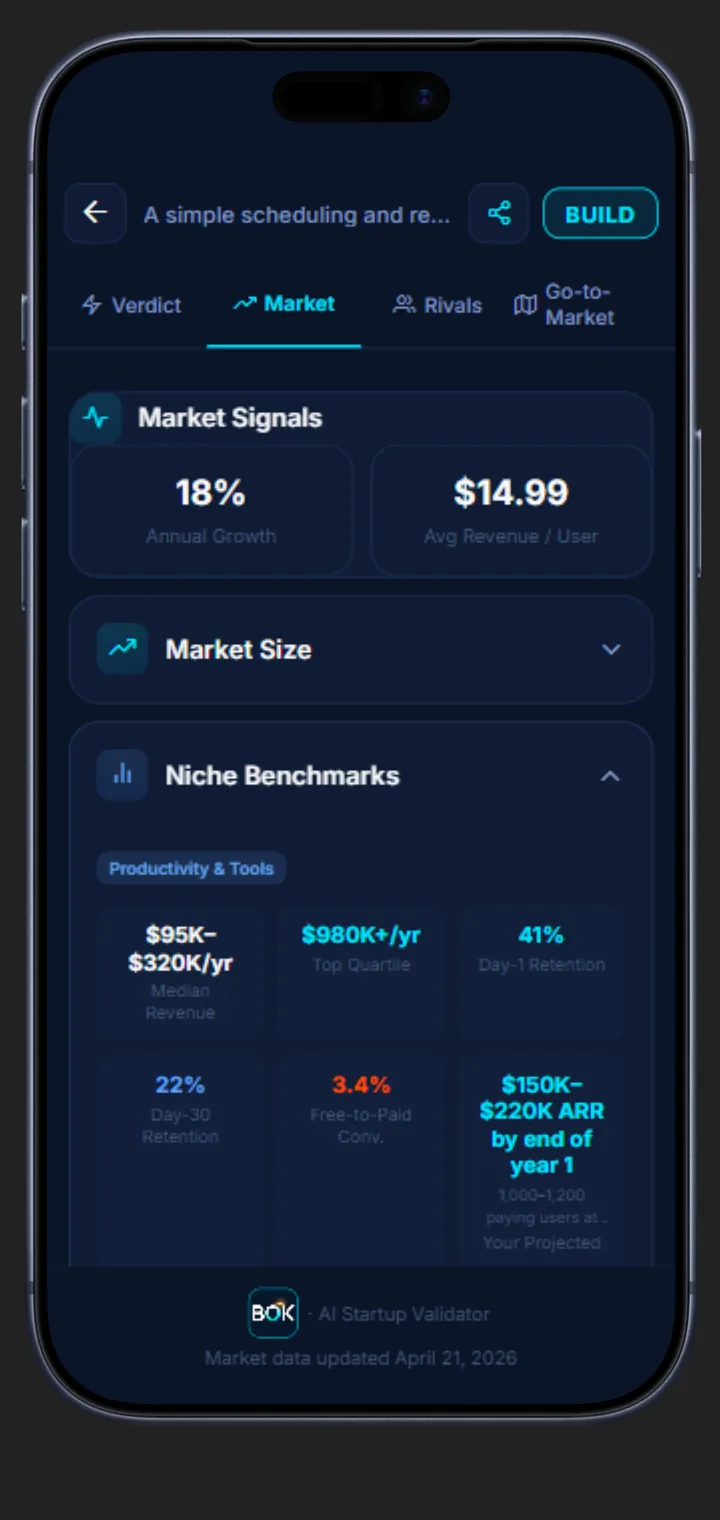
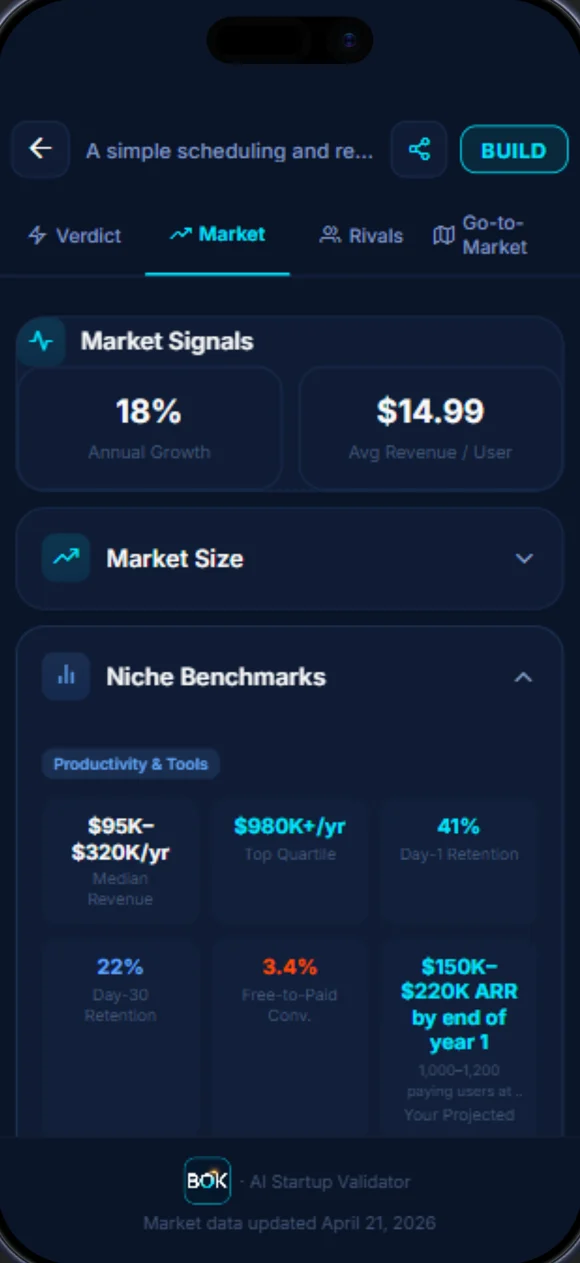
Rebuild the phones as one real device component, fix hero overlap
The hero copy was absolutely positioned over the stage and overlapped
the phone by 137px at 1100 and 56px at 1280, only clearing at 1440. That
pattern is for full-bleed media; a phone is a discrete object, so the
hero is a two-column grid now (zero overlap 1024-1920, one column below
860px).

The page also showed two different kinds of phone: a CSS frame in the
hero and raw crops still carrying the simulator's bezel in the rail. All
four screenshots are recropped to screen content only and one .device
component draws the hardware everywhere, sized from a single
--device-w custom property.

Also centres the pan rail inside its 100vh stage, where it had been
sitting under the fixed bar, and caps device width by viewport height so
a short window cannot push the caption past the fold.

Claude-Session: https://claude.ai/code/session_01BCdpieDx7JrPDrLfUnjo6J

diff --git a/scrollcraft/builds/bok-vai/index.html b/scrollcraft/builds/bok-vai/index.html
@@ -58,37 +58,75 @@
   .btn:disabled { opacity: 0.5; cursor: not-allowed; }
 
   /* --------------------------------------------------------- act one --- */
-  /* aspect matches the hero screenshot's own crop (780x1490). The source
-     capture had a "Validation failed" error line under the Validate button,
-     which is the last thing a validator's hero should show, so the asset is
-     cropped above it and the frame matches that crop rather than cover-
-     cropping the card's edges away. */
-  .phone-frame {
-    position: relative; width: min(19rem, 62vw); aspect-ratio: 780 / 1490;
-    border-radius: 2.4rem; padding: 0.45rem;
-    background: linear-gradient(160deg, #2A3554, #0C1424);
-    box-shadow: var(--sc-e3), var(--sc-edge);
-    transform: scale(calc(1 + var(--sc-p, 0) * 0.06));
-    will-change: transform;
+  /* ---- the device ------------------------------------------------------
+     One hardware component, used for every screen on the page. The
+     screenshots are cropped to screen content only, so the phone itself is
+     drawn here and is identical everywhere: titanium rail, black bezel, the
+     glass inset inside it, side buttons, and a raking glare. Callers set
+     --device-w and nothing else; every other measurement derives from it. */
+  .device {
+    position: relative;
+    width: var(--device-w, 19rem);
+    aspect-ratio: 1170 / 2532;        /* the true screen ratio of the captures */
+    border-radius: calc(var(--device-w, 19rem) * 0.148);
+    padding: calc(var(--device-w, 19rem) * 0.012);
+    background: linear-gradient(148deg,
+      #7A87A6 0%, #2C3448 15%, #171D2C 42%, #2B3348 72%, #8793B0 100%);
+    box-shadow:
+      0 2px 4px hsl(220 40% 2% / 0.40),
+      0 22px 44px -12px hsl(220 40% 2% / 0.55),
+      0 56px 104px -28px hsl(220 40% 2% / 0.45);
   }
-  .phone-frame__screen {
-    width: 100%; height: 100%; border-radius: 1.95rem; overflow: clip;
-    background: var(--sc-canvas);
+  .device__bezel {
+    width: 100%; height: 100%;
+    border-radius: calc(var(--device-w, 19rem) * 0.136);
+    padding: calc(var(--device-w, 19rem) * 0.013);
+    background: #04070D;
   }
-  .phone-frame__screen img { width: 100%; height: 100%; object-fit: cover; object-position: top; }
+  .device__screen {
+    position: relative; width: 100%; height: 100%;
+    border-radius: calc(var(--device-w, 19rem) * 0.123);
+    overflow: clip; background: var(--sc-canvas);
+  }
+  .device__screen img { width: 100%; height: 100%; object-fit: cover; object-position: top center; }
+  .device__glare {
+    position: absolute; inset: 0; pointer-events: none;
+    background: linear-gradient(102deg,
+      color-mix(in oklab, #BFD4FF 10%, transparent) 0%,
+      transparent 32%, transparent 70%,
+      color-mix(in oklab, #BFD4FF 5%, transparent) 100%);
+  }
+  /* side buttons on the rail: volume pair left, side button right */
+  .device__btn {
+    position: absolute; width: calc(var(--device-w, 19rem) * 0.011);
+    background: linear-gradient(180deg, #4E5972, #232A3B);
+    border-radius: 1px; z-index: -1;
+  }
+  .device__btn--vol   { left: calc(var(--device-w, 19rem) * -0.009); top: 19%; height: 8%; }
+  .device__btn--vol2  { left: calc(var(--device-w, 19rem) * -0.009); top: 29%; height: 8%; }
+  .device__btn--side  { right: calc(var(--device-w, 19rem) * -0.009); top: 25%; height: 12%; }
+
   /* NB: these three classes (.hero-stage, .turn-stage, .close) live on the
      SAME element the engine turns into .sc-stage (position:sticky, height:
      100vh). Never redeclare position or height here: this stylesheet loads
      after scrollcraft.css, so a same-specificity class rule here would win
-     the cascade and silently un-stick the pin. Flex layout only. */
+     the cascade and silently un-stick the pin. Layout only. */
   .hero-stage {
-    display: flex; align-items: center; justify-content: center;
-    background: radial-gradient(120% 90% at 50% 30%, #132242 0%, var(--sc-canvas) 70%);
+    display: grid; align-content: center; align-items: center;
+    grid-template-columns: minmax(0, 1.05fr) minmax(0, 0.95fr);
+    gap: clamp(2rem, 5vw, 5.5rem);
+    padding-inline: var(--sc-gutter);
+    background: radial-gradient(120% 90% at 64% 34%, #142544 0%, var(--sc-canvas) 68%);
   }
-  .hero-copy {
-    position: absolute; left: var(--sc-gutter); bottom: clamp(3rem, 12vh, 8rem);
-    max-width: min(30rem, 78vw); z-index: var(--sc-z-copy);
+  .hero-stage .device {
+    --device-w: min(18.5rem, 32vw); justify-self: center;
+    transform: scale(calc(1 + var(--sc-p, 0) * 0.05)); will-change: transform;
   }
+  /* The copy was absolutely positioned over the stage, which overlapped the
+     phone by 137px at 1100 and 56px at 1280 and only cleared at 1440. A
+     discrete object is not full-bleed media, so the copy gets its own grid
+     column instead of an overlay. */
+  .hero-copy { max-width: 34rem; z-index: var(--sc-z-copy); }
   .hero-copy .sc-label { color: var(--sc-accent); }
   .hero-copy h1 { margin-top: var(--sc-3); font-size: var(--sc-t-3xl); }
   @media (max-width: 700px) { .hero-copy h1 { font-size: var(--sc-t-2xl); } }
@@ -192,14 +230,17 @@
   .rail { gap: var(--sc-6); padding-inline: var(--sc-gutter); align-items: center; }
   .rail__lead { width: clamp(20rem, 24vw, 32rem); flex: none; padding-right: var(--sc-6); }
   .rail-item { width: clamp(17rem, 22vw, 30rem); flex: none; }
+  .rail-item figure { margin: 0; display: flex; justify-content: center; }
+  /* the pan stage is 100vh but the rail is only as tall as its content, so it
+     was sitting flush against the top of the viewport, under the fixed bar.
+     Layout only here: never position/height, which belong to .sc-stage. */
+  .rail-stage { display: flex; align-items: center; }
+  /* width is capped by viewport HEIGHT too, or a tall phone on a short window
+     grows past the fold: 2.164 is the device's own aspect. */
+  .rail-item .device { --device-w: min(clamp(13.5rem, 17vw, 22rem), 27vh); }
   .rail__close { width: clamp(16rem, 20vw, 28rem); flex: none; }
   .rail__close p { color: var(--sc-ink-soft); }
-  .rail-item figure {
-    margin: 0; border-radius: var(--sc-r-lg); overflow: clip;
-    box-shadow: var(--sc-e2), var(--sc-edge);
-  }
-  .rail-item img { width: 100%; display: block; }
-  .rail-item figcaption { margin-top: var(--sc-4); }
+  .rail-item figcaption { margin-top: var(--sc-5); text-align: center; }
   .rail-item figcaption b { display: block; font-family: var(--sc-font-display); font-size: var(--sc-t-base); }
   .rail-item figcaption span { color: var(--sc-ink-soft); font-size: var(--sc-t-sm); }
 
@@ -224,9 +265,14 @@
        Below 860px the phone is wide relative to the viewport, so that copy
        lands on top of the screenshot's own busy pixels: a real contrast
        failure the mobile shoot caught, not a cosmetic one. Stack instead. */
-    .hero-stage { flex-direction: column; justify-content: flex-start; padding-top: 6rem; gap: var(--sc-5); }
-    .phone-frame { width: 46vw; }
-    .hero-copy { position: static; max-width: none; text-align: left; padding-inline: var(--sc-gutter); }
+    /* one column below 860px: the copy reads first, the phone sits under it */
+    .hero-stage {
+      grid-template-columns: minmax(0, 1fr);
+      align-content: start; padding-top: 5.5rem; gap: var(--sc-6);
+      justify-items: center;
+    }
+    .hero-stage .device { --device-w: min(15rem, 44vw); order: 2; }
+    .hero-copy { max-width: none; order: 1; justify-self: stretch; }
   }
 </style>
 </head>
@@ -248,15 +294,21 @@
   <!-- 1 · RECOGNITION — pin. The app itself, cold, no preamble. -->
   <section data-sc-act="pin" data-sc-span="2.4" data-sc-drift="#070C18">
     <div data-sc-stage class="hero-stage">
-      <div class="phone-frame">
-        <div class="phone-frame__screen">
-          <img src="assets/hero-home.webp" alt="The BOK app: a text field for your idea, and a Validate button.">
-        </div>
-      </div>
       <div class="hero-copy" data-sc-cue="0 0.78 0">
         <p class="sc-label">AI startup validator</p>
         <h1 class="sc-display" data-sc-kinetic="lines">Every idea deserves an honest verdict.</h1>
         <p class="sc-body">Type it in. BOK tells you build, kill, or pivot, backed by real market and competitor data.</p>
+      </div>
+      <div class="device">
+        <span class="device__btn device__btn--vol" aria-hidden="true"></span>
+        <span class="device__btn device__btn--vol2" aria-hidden="true"></span>
+        <span class="device__btn device__btn--side" aria-hidden="true"></span>
+        <div class="device__bezel">
+          <div class="device__screen">
+            <img src="assets/screen-home.webp" alt="The BOK app open on a phone: a field to describe your app idea, and a Validate button.">
+            <span class="device__glare" aria-hidden="true"></span>
+          </div>
+        </div>
       </div>
     </div>
   </section>
@@ -318,22 +370,22 @@
 
   <!-- 4 · SUBSTANCE — pan. Why it holds up: the real analysis screens. -->
   <section data-sc-act="pan" data-sc-span="4.4" data-sc-drift="#0A1220">
-    <div data-sc-stage>
+    <div data-sc-stage class="rail-stage">
       <div class="rail" data-sc-pan="0.06">
         <div class="rail__lead sc-stack">
           <h2 class="sc-display sc-display--md">Not a guess dressed up.</h2>
           <p class="sc-body">Every verdict comes with the reasoning behind it, in the app, not hidden in a black box.</p>
         </div>
         <article class="rail-item">
-          <figure><img src="assets/screen-verdict.webp" alt="The BOK verdict screen: a 72 out of 100 score and a BUILD recommendation."></figure>
+          <figure><div class="device"><span class="device__btn device__btn--vol" aria-hidden="true"></span><span class="device__btn device__btn--vol2" aria-hidden="true"></span><span class="device__btn device__btn--side" aria-hidden="true"></span><div class="device__bezel"><div class="device__screen"><img src="assets/screen-verdict.webp" alt="The BOK verdict screen: a 72 out of 100 score and a BUILD recommendation."><span class="device__glare" aria-hidden="true"></span></div></div></div></figure>
           <figcaption><b>Verdict.</b><span>Score and recommendation, with the reasoning underneath.</span></figcaption>
         </article>
         <article class="rail-item">
-          <figure><img src="assets/screen-market.webp" alt="The BOK market screen: annual growth, revenue per user, and niche benchmarks."></figure>
+          <figure><div class="device"><span class="device__btn device__btn--vol" aria-hidden="true"></span><span class="device__btn device__btn--vol2" aria-hidden="true"></span><span class="device__btn device__btn--side" aria-hidden="true"></span><div class="device__bezel"><div class="device__screen"><img src="assets/screen-market.webp" alt="The BOK market screen: annual growth, revenue per user, and niche benchmarks."><span class="device__glare" aria-hidden="true"></span></div></div></div></figure>
           <figcaption><b>Market.</b><span>Growth rate, revenue per user, real niche benchmarks.</span></figcaption>
         </article>
         <article class="rail-item">
-          <figure><img src="assets/screen-rivals.webp" alt="The BOK rivals screen: named competitors, their revenue, and the gap in their product."></figure>
+          <figure><div class="device"><span class="device__btn device__btn--vol" aria-hidden="true"></span><span class="device__btn device__btn--vol2" aria-hidden="true"></span><span class="device__btn device__btn--side" aria-hidden="true"></span><div class="device__bezel"><div class="device__screen"><img src="assets/screen-rivals.webp" alt="The BOK rivals screen: named competitors, their revenue, and the gap in their product."><span class="device__glare" aria-hidden="true"></span></div></div></div></figure>
           <figcaption><b>Rivals.</b><span>Who's already close, their revenue, and exactly where they're weak.</span></figcaption>
         </article>
         <div class="rail__close sc-stack">

diff --git a/scrollcraft/builds/bok-vai/BRIEF.md b/scrollcraft/builds/bok-vai/BRIEF.md
@@ -115,6 +115,28 @@ Four real defects, all caught by the harness or by direct measurement:
 3. **Hero copy failed contrast on mobile** (3.2:1, reported by the 390px
    shoot): absolutely-positioned copy landed on top of the centred phone
    screenshot. The hero now stacks below 860px instead of overlapping.
+5. **The hero copy overlapped the phone**, reported by the human, confirmed by
+   measurement: the copy was absolutely positioned over the stage and ran into
+   the device by 137px at 1100 and 56px at 1280, clearing only at 1440 and then
+   by 16px. That overlay pattern belongs to full-bleed media; a phone is a
+   discrete object. The hero is now a two-column grid, measured at zero overlap
+   from 1024 to 1920, and one column below 860px.
+6. **The phones were not consistent hardware.** The hero had a CSS frame while
+   the analysis screens were raw crops that still carried the simulator's own
+   bezel, so the page showed two different kinds of phone. All four screenshots
+   are now cropped to screen content only, and one `.device` component draws
+   the hardware everywhere: titanium rail, black bezel, inset glass, side
+   buttons, raking glare. Callers set `--device-w`; everything else derives.
+7. **The rail sat flush against the top of the viewport.** The pan stage is
+   100vh but the rail is only as tall as its content, so it was never centred
+   and the phones ran under the fixed bar. The stage centres its rail now, and
+   device width is capped by viewport height as well as width so a short
+   window cannot push the caption past the fold.
+
+Also: the hero screenshot's "Validation failed" error line is covered with the
+input card's own background colour rather than cropped out, so the asset keeps
+the true 1170x2532 phone ratio the device frame needs.
+
 4. **The pan rail had zero horizontal overflow at desktop widths**, measured
    directly. Fixed-rem items summed to exactly the viewport at 1440px and less
    than it at 1920px, which would have parked act 4 as a dead pinned screen on
